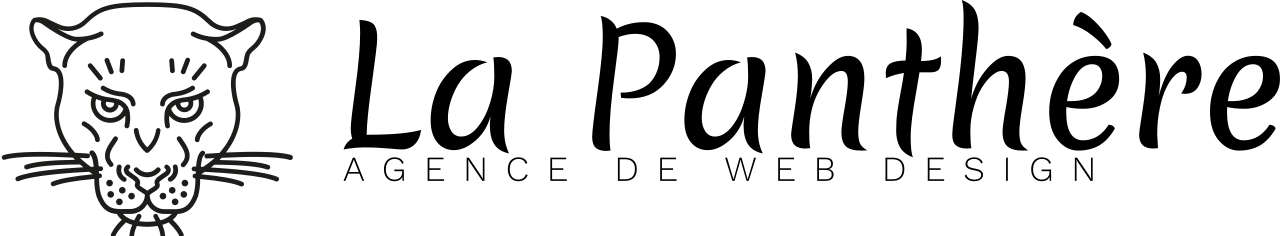
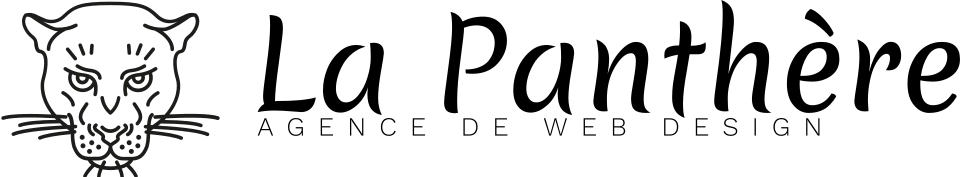
Fix some problem for a good Lighthouse result
- Image size change 
- all "button" respect accesibility condition
- all social button have a description
- change "page2 >" to "contact" 
- solve lot of problem with js ( now it's work)
- add meta description and title for contact page 
- lot of small improvements

diff --git a/style.css b/style.css
@@ -332,6 +332,37 @@ a:hover {
     text-align: inherit;
 }
 
+/* Modification Swann */
+.col-sm-4{
+    padding-top: 10px;
+}
+
+.col-sm-4 ul{
+    padding-top: 10px;
+}
+
+.col-sm-4 li a{
+    font-weight: bold;
+    font-size: 12px;
+  
+}
+.col-sm-4 li {
+min-width: 48px;
+min-height: 48px;
+}
+
+.comment-Maxime p{
+font-size: 13.5px;
+}
+
+.end-comment p{
+    font-size: 16px;
+    font-weight: bold;
+}
+
+
+/* Modification Swann */
+
 .nav > li a:hover,
 .nav > li a:focus {
     background: transparent;
@@ -540,6 +571,8 @@ a[data-lightbox]:hover::before {
     content: "+";
     font-family: "HelveticaNeue-Light", "Helvetica Neue Light", "Helvetica Neue", Helvetica, Arial;
     font-size: 32px;
+    /* Ajout de Swann */ 
+    font-display: block;
     width: 50px;
     height: 50px;
     margin-left: -25px;
@@ -652,6 +685,8 @@ a {
     font-family: "helvetica";
     font-weight: 400;
     color: #575757!important;
+    /* Ajout de Swann */
+    font-display: block;
 }
 
 .container {
@@ -688,6 +723,8 @@ p {
 .h1 {
     font-size: 20px;
     font-family: "Open Sans";
+    /* Ajout de Swann */
+    font-display: block;
 }
 
 .cta-hero {
@@ -700,7 +737,7 @@ p {
 }
 
 .social {
-    max-width: 400px;
+    max-width: 410px;
     margin: auto auto auto auto;
 }
 

diff --git a/index.html b/index.html
@@ -52,7 +52,7 @@
 					<li>
 					</li>
 					<li>
-						<a href="page2.html">page2 &gt;</a>
+						<a href="page2.html">Contact</a>
 					</li>
 				</ul>
 			</div>
@@ -243,7 +243,7 @@
 					</div>
 					<div class="col-sm-3">
 						<div class="text-center">
-							<a class="social" href="https://instagram.com">Rejoignez nous sur Instagram<span class="fa fa-instagram icon-md"></span></a>
+							<a class="social" href="https://instagram.com">Notre Instagram<span class="fa fa-instagram icon-md"></span></a>
 						</div>
 					</div>
 				

diff --git a/page2.html b/page2.html
@@ -18,7 +18,7 @@
 	<script src="./js/blocs.js"></script>
 	<script src="./js/jqBootstrapValidation.js"></script>
 	<script src="./js/formHandler.js"></script>
-    <title>page2</title>
+    <title>Contact</title>
 
     
 <!-- Analytics -->
@@ -48,7 +48,7 @@
 					<li>
 					</li>
 					<li>
-						<a href="page2.html">page2 &gt;</a>
+						<a href="page2.html">Contact</a>
 					</li>
 				</ul>
 			</div>
